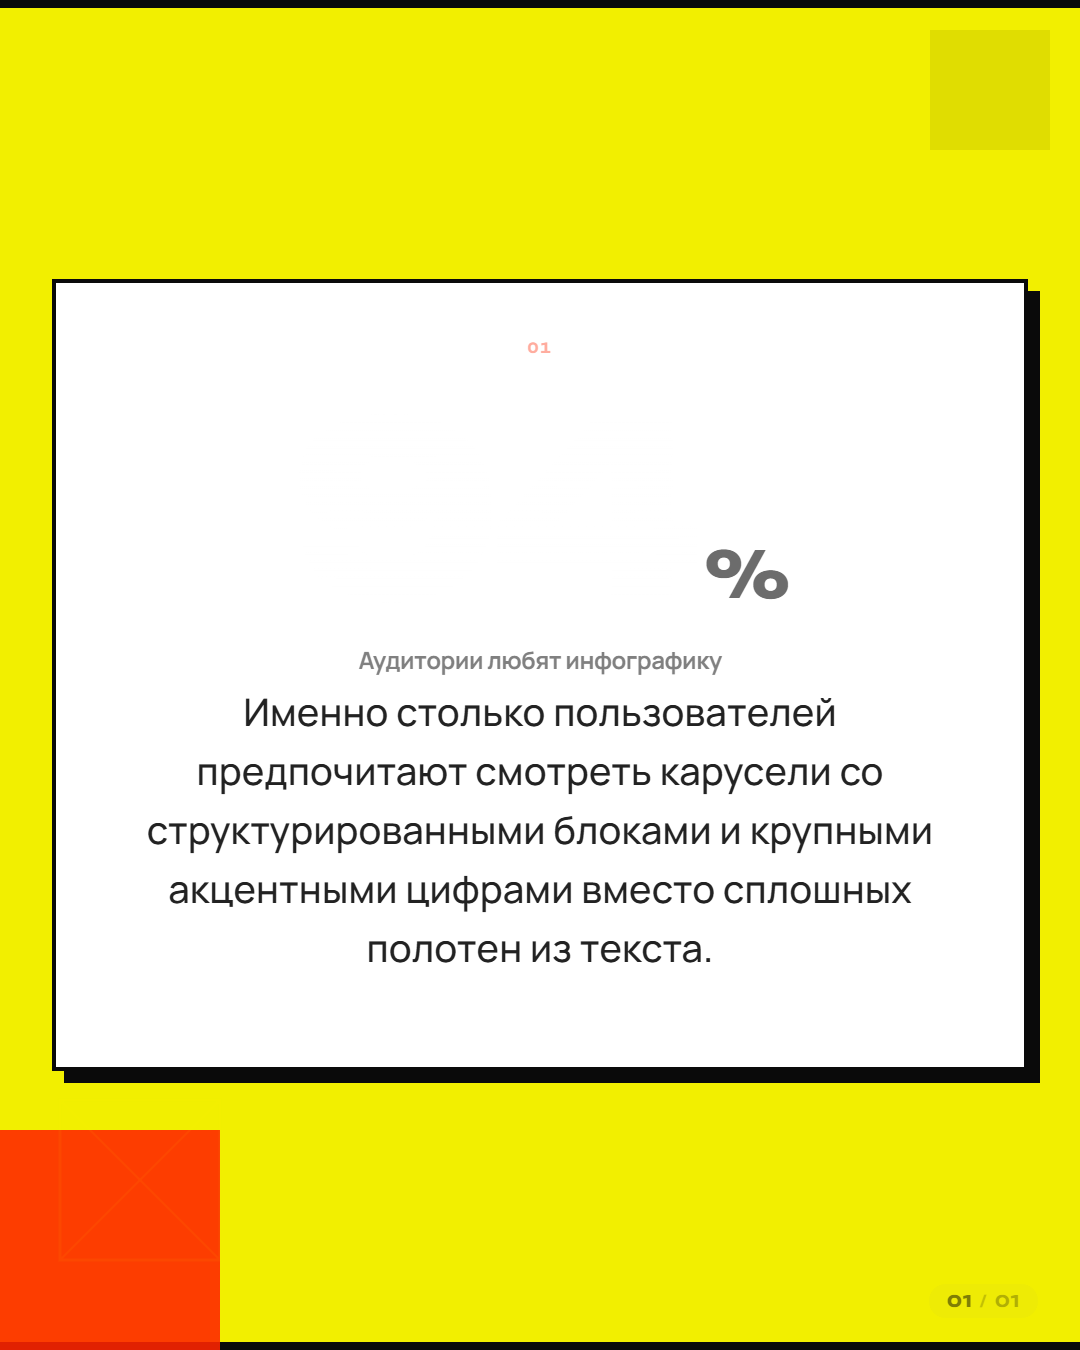
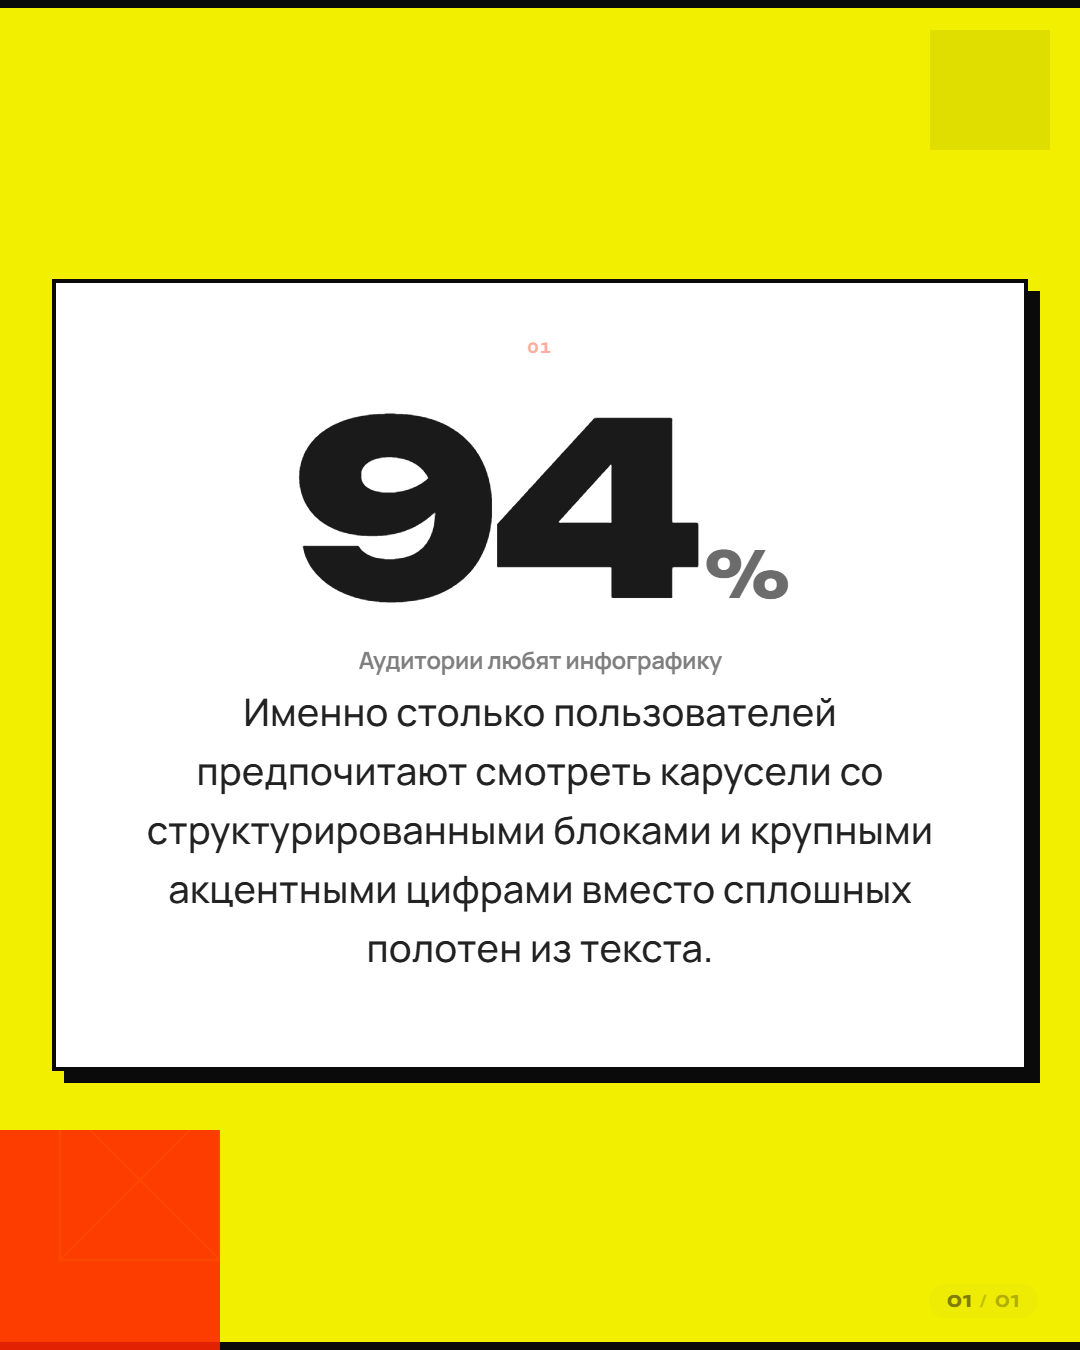
fix: hero-num visibility on light themes (neo-brutalism)

Changed region(s): [[0.275, 0.28, 0.6722, 0.4667]]

diff --git a/src/core/slideLayouts.ts b/src/core/slideLayouts.ts
@@ -456,8 +456,7 @@ export const LAYOUTS_CSS = `
 }
 /* Hero number — dark themes: gradient glow */
 [data-theme="glassmorphism"] .hero-num,
-[data-theme="neo-brutalism"] .hero-num,
-[data-theme="dark-cyberpunk"] .hero-num,
+[data-theme="cyberpunk"] .hero-num,
 [data-theme="apple-premium"] .hero-num,
 [data-theme="y2k-acid"] .hero-num,
 [data-theme="deep-space"] .hero-num,
@@ -469,12 +468,14 @@ export const LAYOUTS_CSS = `
   filter: drop-shadow(0 0 60px rgba(255,255,255,0.15));
 }
 /* Hero number — light themes: solid dark */
+[data-theme="neo-brutalism"] .hero-num,
 [data-theme="warm-editorial"] .hero-num,
 [data-theme="soft-gradient"] .hero-num,
 [data-theme="ink-paper"] .hero-num,
 [data-theme="concrete-swiss"] .hero-num,
 [data-theme="edtech-trust"] .hero-num {
   color: #1a1a1a;
+  background: none;
   opacity: 1;
   -webkit-text-fill-color: #1a1a1a;
   filter: none;
